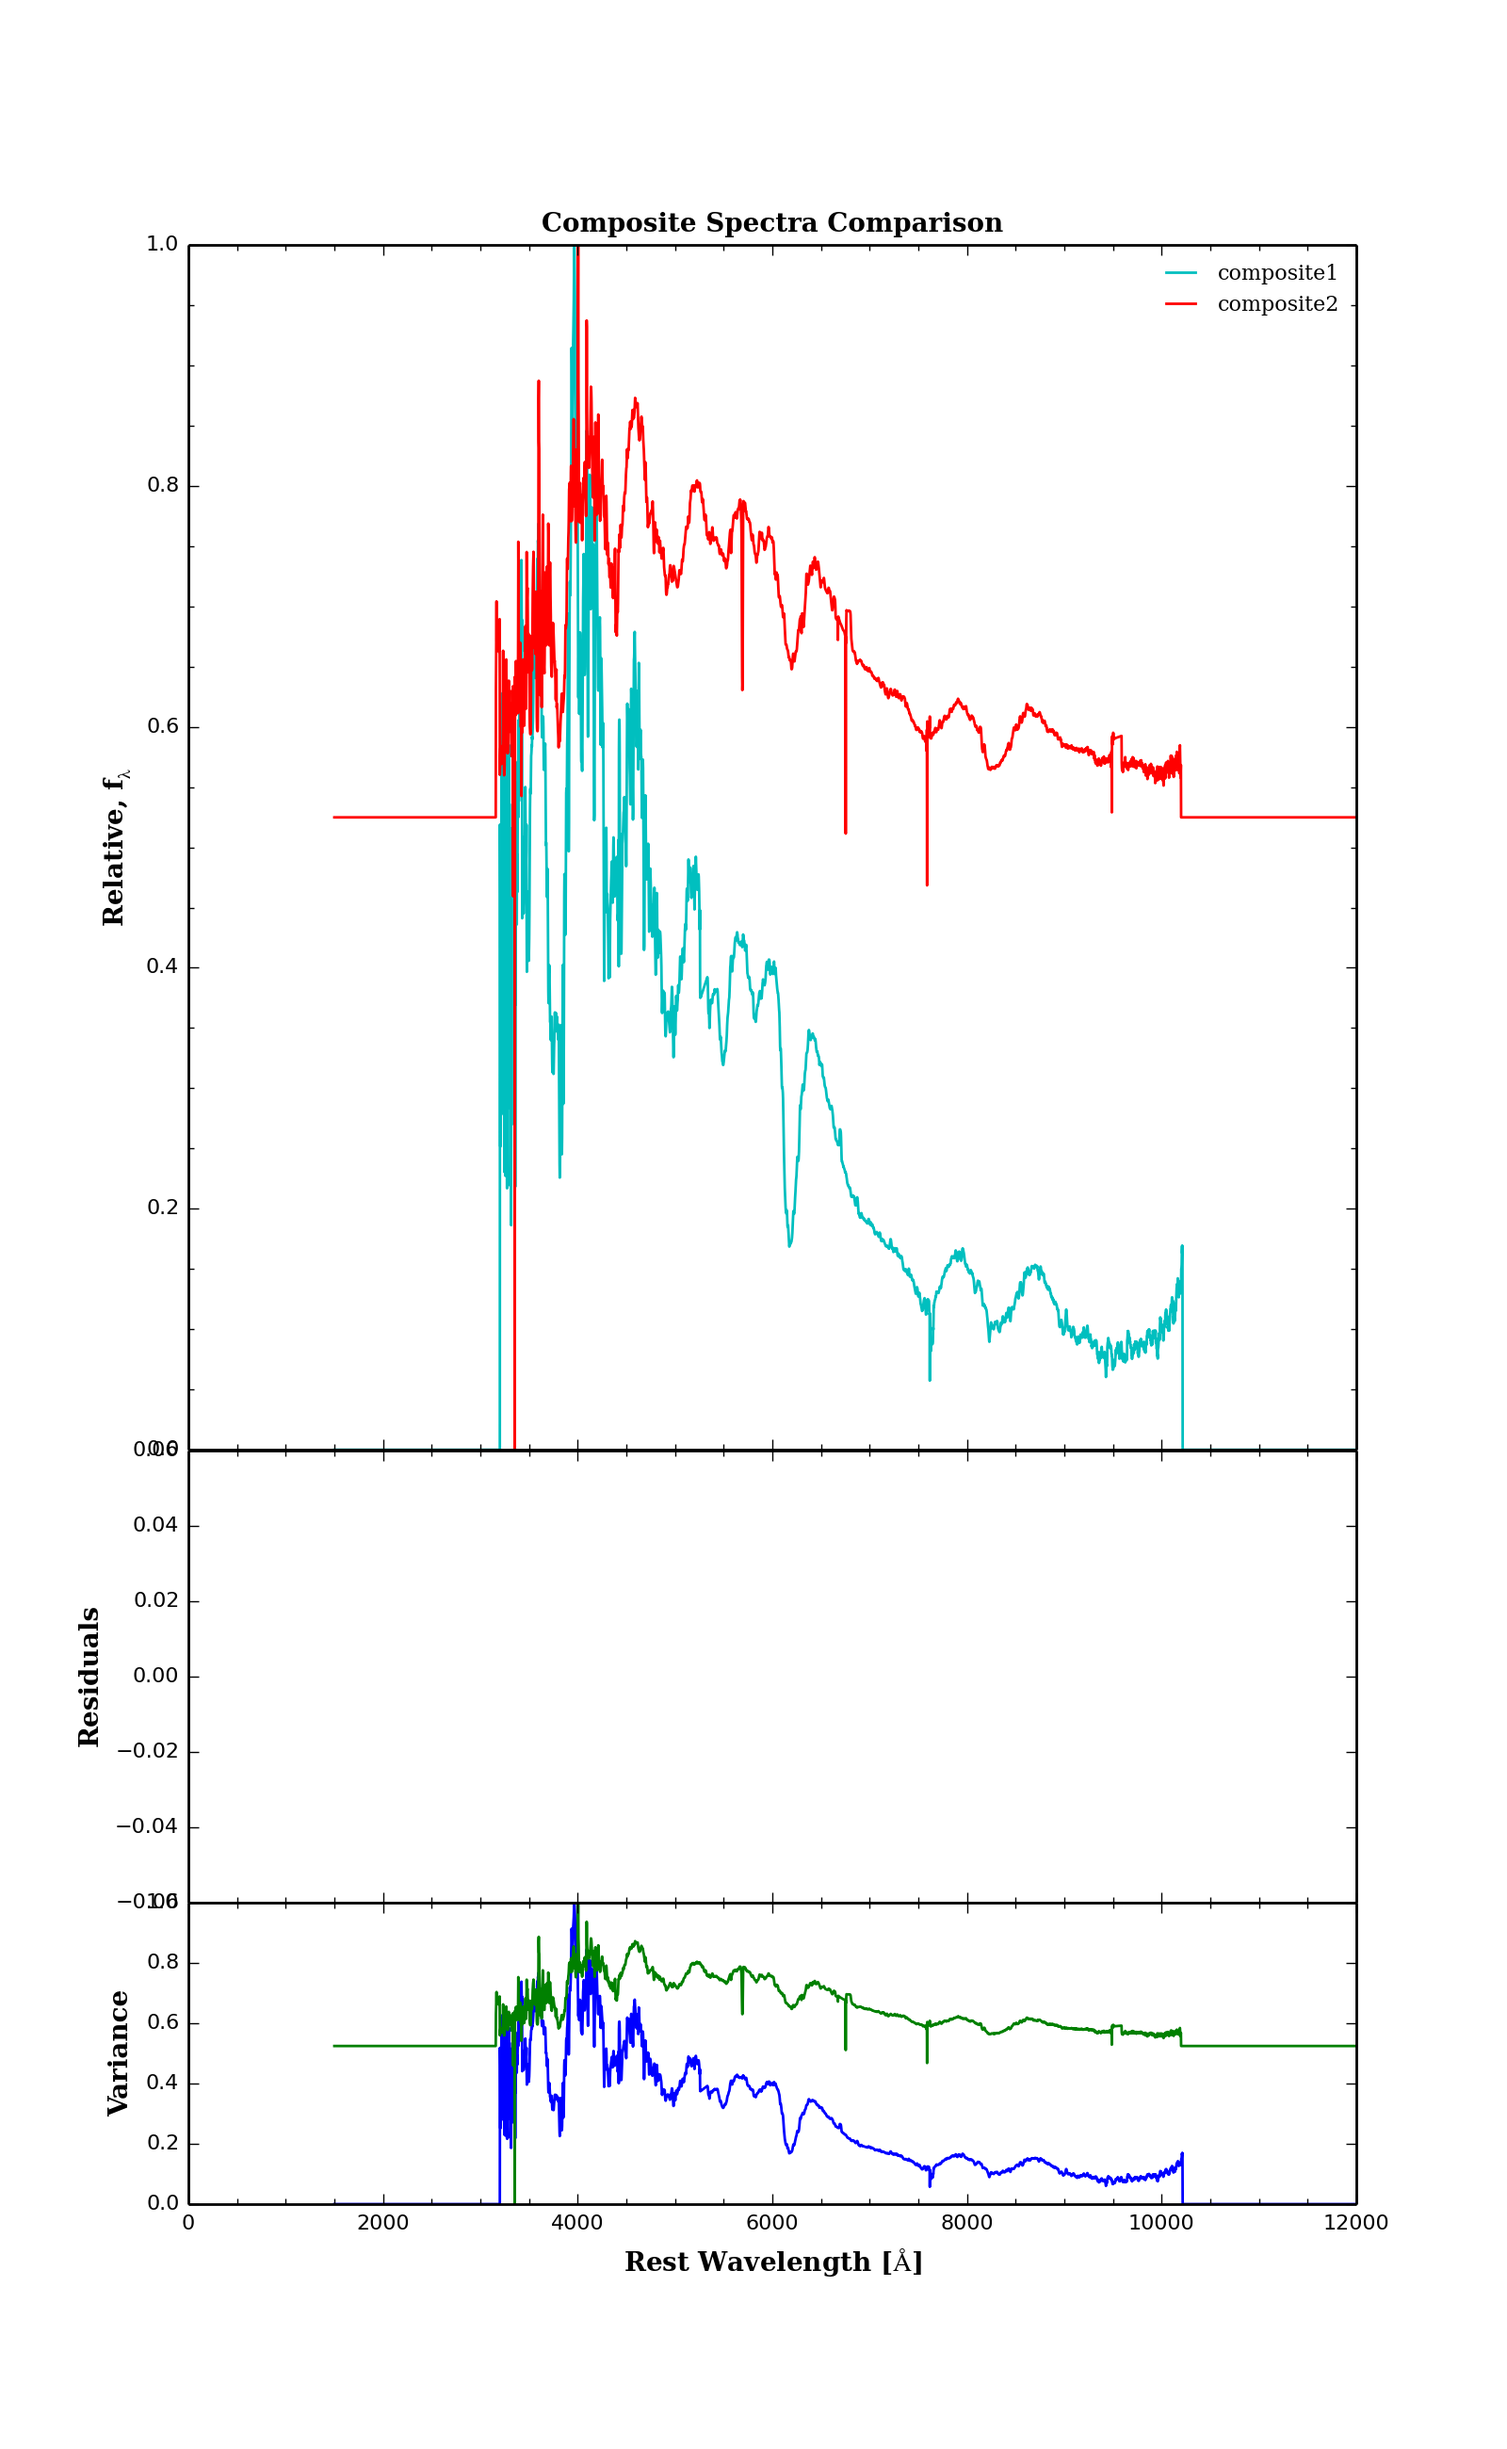
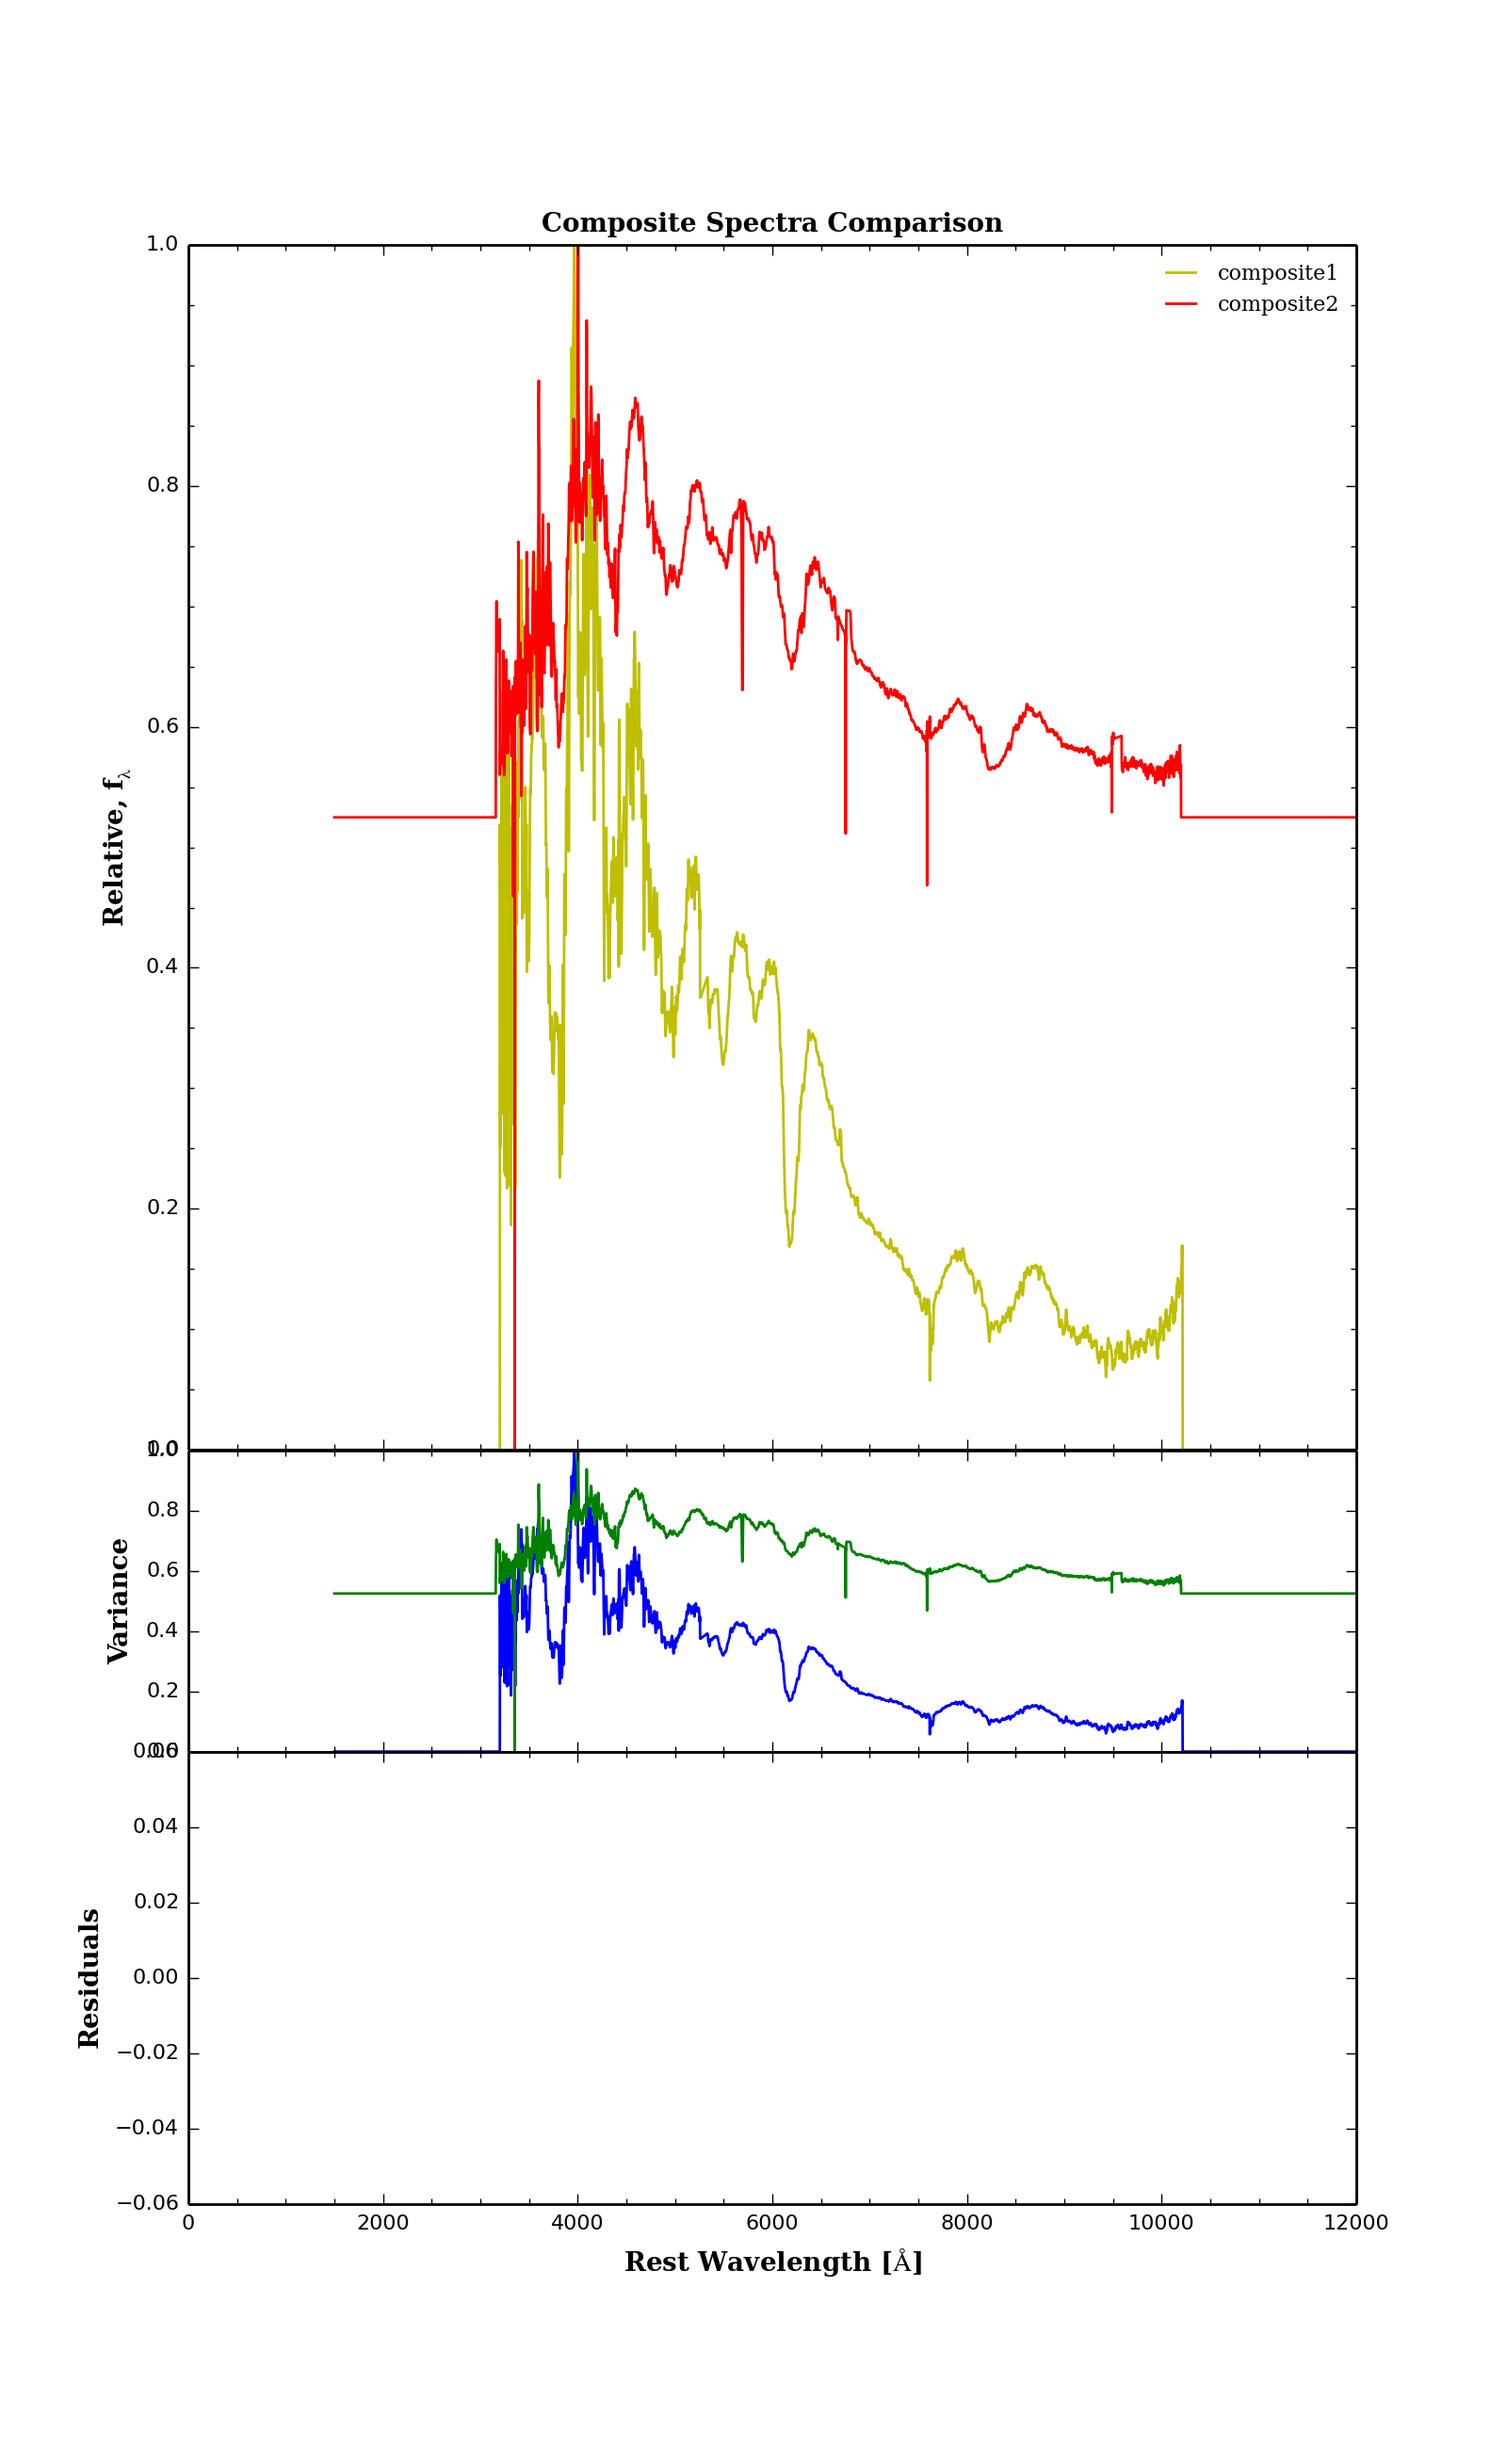
Variance modifications

diff --git a/src/Plotting.py b/src/Plotting.py
@@ -48,9 +48,9 @@ def main(Show_Data , Plots , image_title , title, Names):
 # Set the height of each figure
 #############################################################
     print "Begin plotting..."
-    # Available Plots:  Relative Flux, Residuals, Spectra/Bin, Age, Delta, Redshift, Variance 
+    # Available Plots:  Relative Flux,Variance, Residuals, Spectra/Bin, Age, Delta, Redshift,  
     #                   0              1          2            3    4      5         6
-    Height =           [8,             2,         3,           2,   2,     2,        3]
+    Height =           [8,             3,         2,           3,   2,     2,        2]
 
     
     h = []
@@ -68,13 +68,13 @@ def main(Show_Data , Plots , image_title , title, Names):
 # Rename the variable.
 #############################################################
     # Use the length of each component of Show_Data to rename and fill arrays
-    len_RF = len(Show_Data[:][0])
-    len_RS = len(Show_Data[:][1])
-    len_SB = len(Show_Data[:][2])
-    len_AG = len(Show_Data[:][3])
-    len_DE = len(Show_Data[:][4])
-    len_RD = len(Show_Data[:][5])
-    len_VA = len(Show_Data[:][6])
+    len_RF = len(Show_Data[:][0])    
+    len_VA = len(Show_Data[:][1])
+    len_RS = len(Show_Data[:][2])
+    len_SB = len(Show_Data[:][3])
+    len_AG = len(Show_Data[:][4])
+    len_DE = len(Show_Data[:][5])
+    len_RD = len(Show_Data[:][6])
 
     # Even values are x. Odd are y  (Slightly confusing for the time being)
     RF = []
@@ -89,24 +89,25 @@ def main(Show_Data , Plots , image_title , title, Names):
     for i in range(len_RF):
         rf = Show_Data[:][0][i].T 
         RF.append(rf)
+    for i in range(len_VA):
+        va = Show_Data[:][1][i].T
+        VA.append(va) 
     for i in range(len_RS): 
-        rs = Show_Data[:][1][i].T
+        rs = Show_Data[:][2][i].T
         RS.append(rs)    
     for i in range(len_SB):
-        sb = Show_Data[:][2][i].T 
+        sb = Show_Data[:][3][i].T 
         SB.append(sb)
     for i in range(len_AG):
-        ag = Show_Data[:][3][i].T
+        ag = Show_Data[:][4][i].T
         AG.append(ag) 
     for i in range(len_DE):
-        de = Show_Data[:][4][i].T
+        de = Show_Data[:][5][i].T
         DE.append(de)  
     for i in range(len_RD):
-        rd = Show_Data[:][5][i].T
+        rd = Show_Data[:][6][i].T
         RD.append(rd) 
-    for i in range(len_VA):
-        va = Show_Data[:][6][i].T
-        VA.append(va) 
+
     
     """    
     print "Length of RS :", len_RS
@@ -190,7 +191,20 @@ def main(Show_Data , Plots , image_title , title, Names):
             plt.setp(RFxticklabels, visible=True)
         else:
             plt.setp(RFxticklabels, visible=False)
-
+#############################################################
+# The following function plots the variance 
+#############################################################
+    def Variance(VA):
+        Variance = plt.subplot(gs[p], sharex = Rel_flux)
+        plt.ylabel('Variance', fontdict = font)
+        for k in range(len_VA):
+            if k % 2 == 0:
+                plt.plot(VA[k], VA[k+1], label = "Variance", ls = '-')
+        VAxticklabels = Variance.get_xticklabels()
+        if max(stacked) == 1:            
+            plt.setp(VAxticklabels, visible=True)
+        else:
+            plt.setp(VAxticklabels, visible=False)
 #############################################################
 # The following function uses the x and rms to plot the RMS 
 #############################################################
@@ -205,7 +219,7 @@ def main(Show_Data , Plots , image_title , title, Names):
                 plt.plot(RS[j][0], RS[j+1][0][0], label = "RMS of residuals", ls = '-')
         #plt.plot(RS[0], RS[1], label = "RMS of residuals", ls = '-')
         RSxticklabels = Resid.get_xticklabels()
-        if max(stacked) == 1:
+        if max(stacked) == 2:
             plt.setp(RSxticklabels, visible=True)
         else:
             plt.setp(RSxticklabels, visible=False)
@@ -220,7 +234,7 @@ def main(Show_Data , Plots , image_title , title, Names):
             if k % 2 == 0:
                 plt.plot(SB[k], SB[k+1], label = "Spectra per Bin", ls = '-')
         SBxticklabels = SpecBin.get_xticklabels()        
-        if max(stacked) == 2:
+        if max(stacked) == 3:
             plt.setp(SBxticklabels, visible=True)
         else:
             plt.setp(SBxticklabels, visible=False)
@@ -235,7 +249,7 @@ def main(Show_Data , Plots , image_title , title, Names):
             if k % 2 == 0:
                 plt.plot(AG[k], AG[k+1], label = "Age", ls = '-')
         AGxticklabels = Age.get_xticklabels()        
-        if max(stacked) == 3:
+        if max(stacked) == 4:
             plt.setp(AGxticklabels, visible=True)
         else:
             plt.setp(AGxticklabels, visible=False)
@@ -250,7 +264,7 @@ def main(Show_Data , Plots , image_title , title, Names):
             if k % 2 == 0:
                 plt.plot(DE[k], DE[k+1], label = "Delta", ls = '-')
         DLxticklabels = Delta.get_xticklabels()
-        if max(stacked) == 4:            
+        if max(stacked) == 5:            
             plt.setp(DLxticklabels, visible=True)
         else:
             plt.setp(DLxticklabels, visible=False)
@@ -265,24 +279,11 @@ def main(Show_Data , Plots , image_title , title, Names):
             if k % 2 == 0:
                 plt.plot(RE[k], RE[k+1], label = "Redshift", ls = '-')
         Zxticklabels = Redshift.get_xticklabels()        
-        if max(stacked) == 5:            
+        if max(stacked) == 6:            
             plt.setp(Zxticklabels, visible=True)
         else:
             plt.setp(Zxticklabels, visible=False)
-#############################################################
-# The following function plots the variance 
-#############################################################
-    def Variance(VA):
-        Variance = plt.subplot(gs[p], sharex = Rel_flux)
-        plt.ylabel('Variance', fontdict = font)
-        for k in range(len_VA):
-            if k % 2 == 0:
-                plt.plot(VA[k], VA[k+1], label = "Variance", ls = '-')
-        VAxticklabels = Variance.get_xticklabels()
-        if max(stacked) == 6:            
-            plt.setp(VAxticklabels, visible=True)
-        else:
-            plt.setp(VAxticklabels, visible=False)
+
 #############################################################
 # The following function will take all the data sets to build  
 # the composite spectrum and lay each one over the next. 
@@ -333,6 +334,9 @@ def main(Show_Data , Plots , image_title , title, Names):
     for j in range(len_RF):
         if j % 2 != 0:
             RF[j] = Scaling(RF[j])
+    for j in range(len_VA):
+        if j % 2 != 0:
+            VA[j] = Scaling(VA[j])
     #for j in range(len_RS):
         #if j % 2 != 0:
             #RS[j] = Scaling(RS[j])
@@ -348,9 +352,7 @@ def main(Show_Data , Plots , image_title , title, Names):
     for j in range(len_SB):
         if j % 2 != 0:
             RD[j] = Scaling(RD[j])
-    for j in range(len_VA):
-        if j % 2 != 0:
-            VA[j] = Scaling(VA[j])
+
 	    
     """
     # Commented out for the time being because we're only given a single array
@@ -400,24 +402,23 @@ def main(Show_Data , Plots , image_title , title, Names):
         Composite(RF,RS,Names) 
         p = p+1
     if 1 in Plots:
-        Residual(RS) 
-        p = p+1
-    if 2 in Plots:  
-        SpecBin(SB)  
-        p = p+1               
-    if 3 in Plots:
-        Age(AG)
-        p = p+1
-    if 4 in Plots:
-        Delta(DE)
-        p = p+1
-    if 5 in Plots:
-        Redshift(RD)
-        p = p+1
-    if 6 in Plots:
         Variance(VA)
         p = p+1
-        
+    if 2 in Plots:
+        Residual(RS) 
+        p = p+1
+    if 3 in Plots:  
+        SpecBin(SB)  
+        p = p+1               
+    if 4 in Plots:
+        Age(AG)
+        p = p+1
+    if 5 in Plots:
+        Delta(DE)
+        p = p+1
+    if 6 in Plots:
+        Redshift(RD)
+        p = p+1
 
     # Regardless of what is plotted, we label the Xaxis and save the plot image         
     plt.xlabel('Rest Wavelength [$\AA$]', fontdict = font)

diff --git a/src/Run.py b/src/Run.py
@@ -87,24 +87,24 @@ Relative_Flux   = plot_array #plots all given composites
 #Technically, the variances are not the residuals. Plotting them is useful, but it's mislabeled here.
 ## Do you want to plot the variance or the residual? The residual is something else that can be plotted. (4/13)
 ###We should be able to plot both. I've created two separate arrays, and they both print just fine on this end. (also 4/13)
+Variance        = []
 Residuals       = residual_array # This is giving nan values when it's normalized, I'm not sure why
 Spectra_Bin     = [] 
 Age             = [] 
 Delta           = [] 
 Redshift        = []
-Variance        = plot_array
 # Can name_array put an empty "  " space between each associated data name
 # yes
 #Names           = ["Carbon Positive", "","Carbon Negative",""] # the names corresponding to each composite go here
 ## If you want custom names ^^^, uncomment and use line 83, for consistency.
 ##Otherwise it'll default to just labeling composites in order.
 Names           = name_array
-Show_Data       = [Relative_Flux,Residuals,Spectra_Bin,Age,Delta,Redshift,Variance]
+Show_Data       = [Relative_Flux,Variance,Residuals,Spectra_Bin,Age,Delta,Redshift]
 
 ## Available Plots:  Relative Flux, Residuals, Spectra/Bin, Age, Delta, Redshift, Variance
 ##                   0              1          2            3    4      5         6
 # the plots you want to create 
-Plots        = [0,6,1] 
+Plots        = [0,2] 
 
 image_title  = "../plots/" + str(sys.argv[1]) + "_composites.png"
 print "Plot saved as: " + image_title
